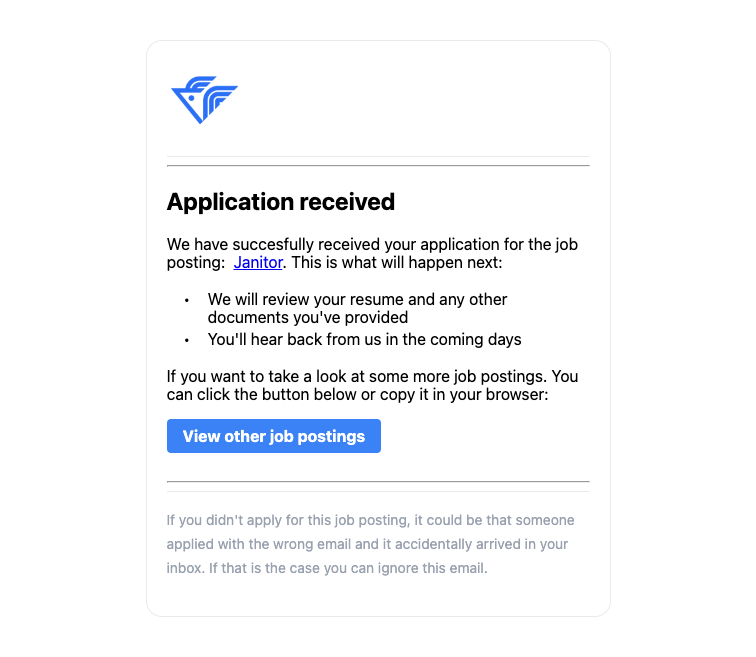
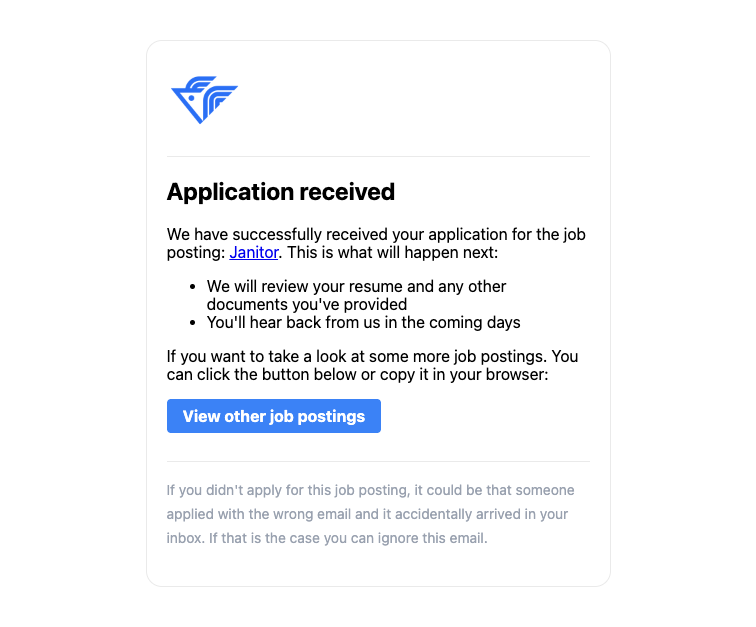
add new versions default body html

diff --git a/defaults-templates.go b/defaults-templates.go
@@ -1,9 +1,8 @@
 package atsemail
 
-// DefaultConfirmBodyHTML is the default body_html for job-application-confirm emails.
-// It uses {job_posting_href}, {job_title}, and {career_site_homepage_href} placeholders
-// resolved via ResolveVars before rendering.
-const DefaultConfirmBodyHTML = `
+// DefaultConfirmBodyHTMLLegacy is the original table-based body seeded by migration 123.
+// Used only as the down-migration target for the migration that replaces it with DefaultConfirmBodyHTML.
+const DefaultConfirmBodyHTMLLegacy = `
 	<hr>
 	<h2>Application received</h2>
 	<p>We have successfully received your application for the job posting:&nbsp;
@@ -29,10 +28,14 @@ const DefaultConfirmBodyHTML = `
 	<hr>
 `
 
-// DefaultDeclineBodyHTML is the default body_html for job-application-decline emails.
+// DefaultConfirmBodyHTML is the default body for job-application-confirm emails.
 // It uses {job_posting_href}, {job_title}, and {career_site_homepage_href} placeholders
 // resolved via ResolveVars before rendering.
-const DefaultDeclineBodyHTML = `
+const DefaultConfirmBodyHTML = `<h2>Application received</h2><p>We have successfully received your application for the job posting: <a href="{job_posting_href}">{job_title}</a>. This is what will happen next:</p><ul><li>We will review your resume and any other documents you've provided</li><li>You'll hear back from us in the coming days</li></ul><p>If you want to take a look at some more job postings. You can click the button below or copy it in your browser:</p><a href="{career_site_homepage_href}" style="background-color:#3b82f6;color:#ffffff;font-weight:700;padding:8px 16px;border-radius:0.25rem;text-decoration:none;display:inline-block;margin-bottom:20px" class="sd-theme-button">View other job postings</a><br>`
+
+// DefaultDeclineBodyHTMLLegacy is the original body seeded by migration 123.
+// Used only as the down-migration target for the migration that replaces it with DefaultDeclineBodyHTML.
+const DefaultDeclineBodyHTMLLegacy = `
 	<hr>
 	<h2>Update on your application</h2>
 	<p>We&#39;ve reviewed your application for
@@ -48,3 +51,8 @@ const DefaultDeclineBodyHTML = `
 		View Job Postings
 	</a>
 `
+
+// DefaultDeclineBodyHTML is the default body for job-application-decline emails.
+// It uses {job_posting_href}, {job_title}, and {career_site_homepage_href} placeholders
+// resolved via ResolveVars before rendering.
+const DefaultDeclineBodyHTML = `<h2>Update on your application</h2><p>We've reviewed your application for <a href="{job_posting_href}">{job_title}</a> and, unfortunately, you won't be moving forward for this role. We appreciate the time you took to apply and encourage you to explore other opportunities that might be a great fit for you.</p><a href="{career_site_homepage_href}" style="background-color:#3b82f6;color:#ffffff;font-weight:700;padding:8px 16px;border-radius:0.25rem;text-decoration:none;display:inline-block;margin-bottom:20px" class="sd-theme-button">View Job Postings</a><br>`
